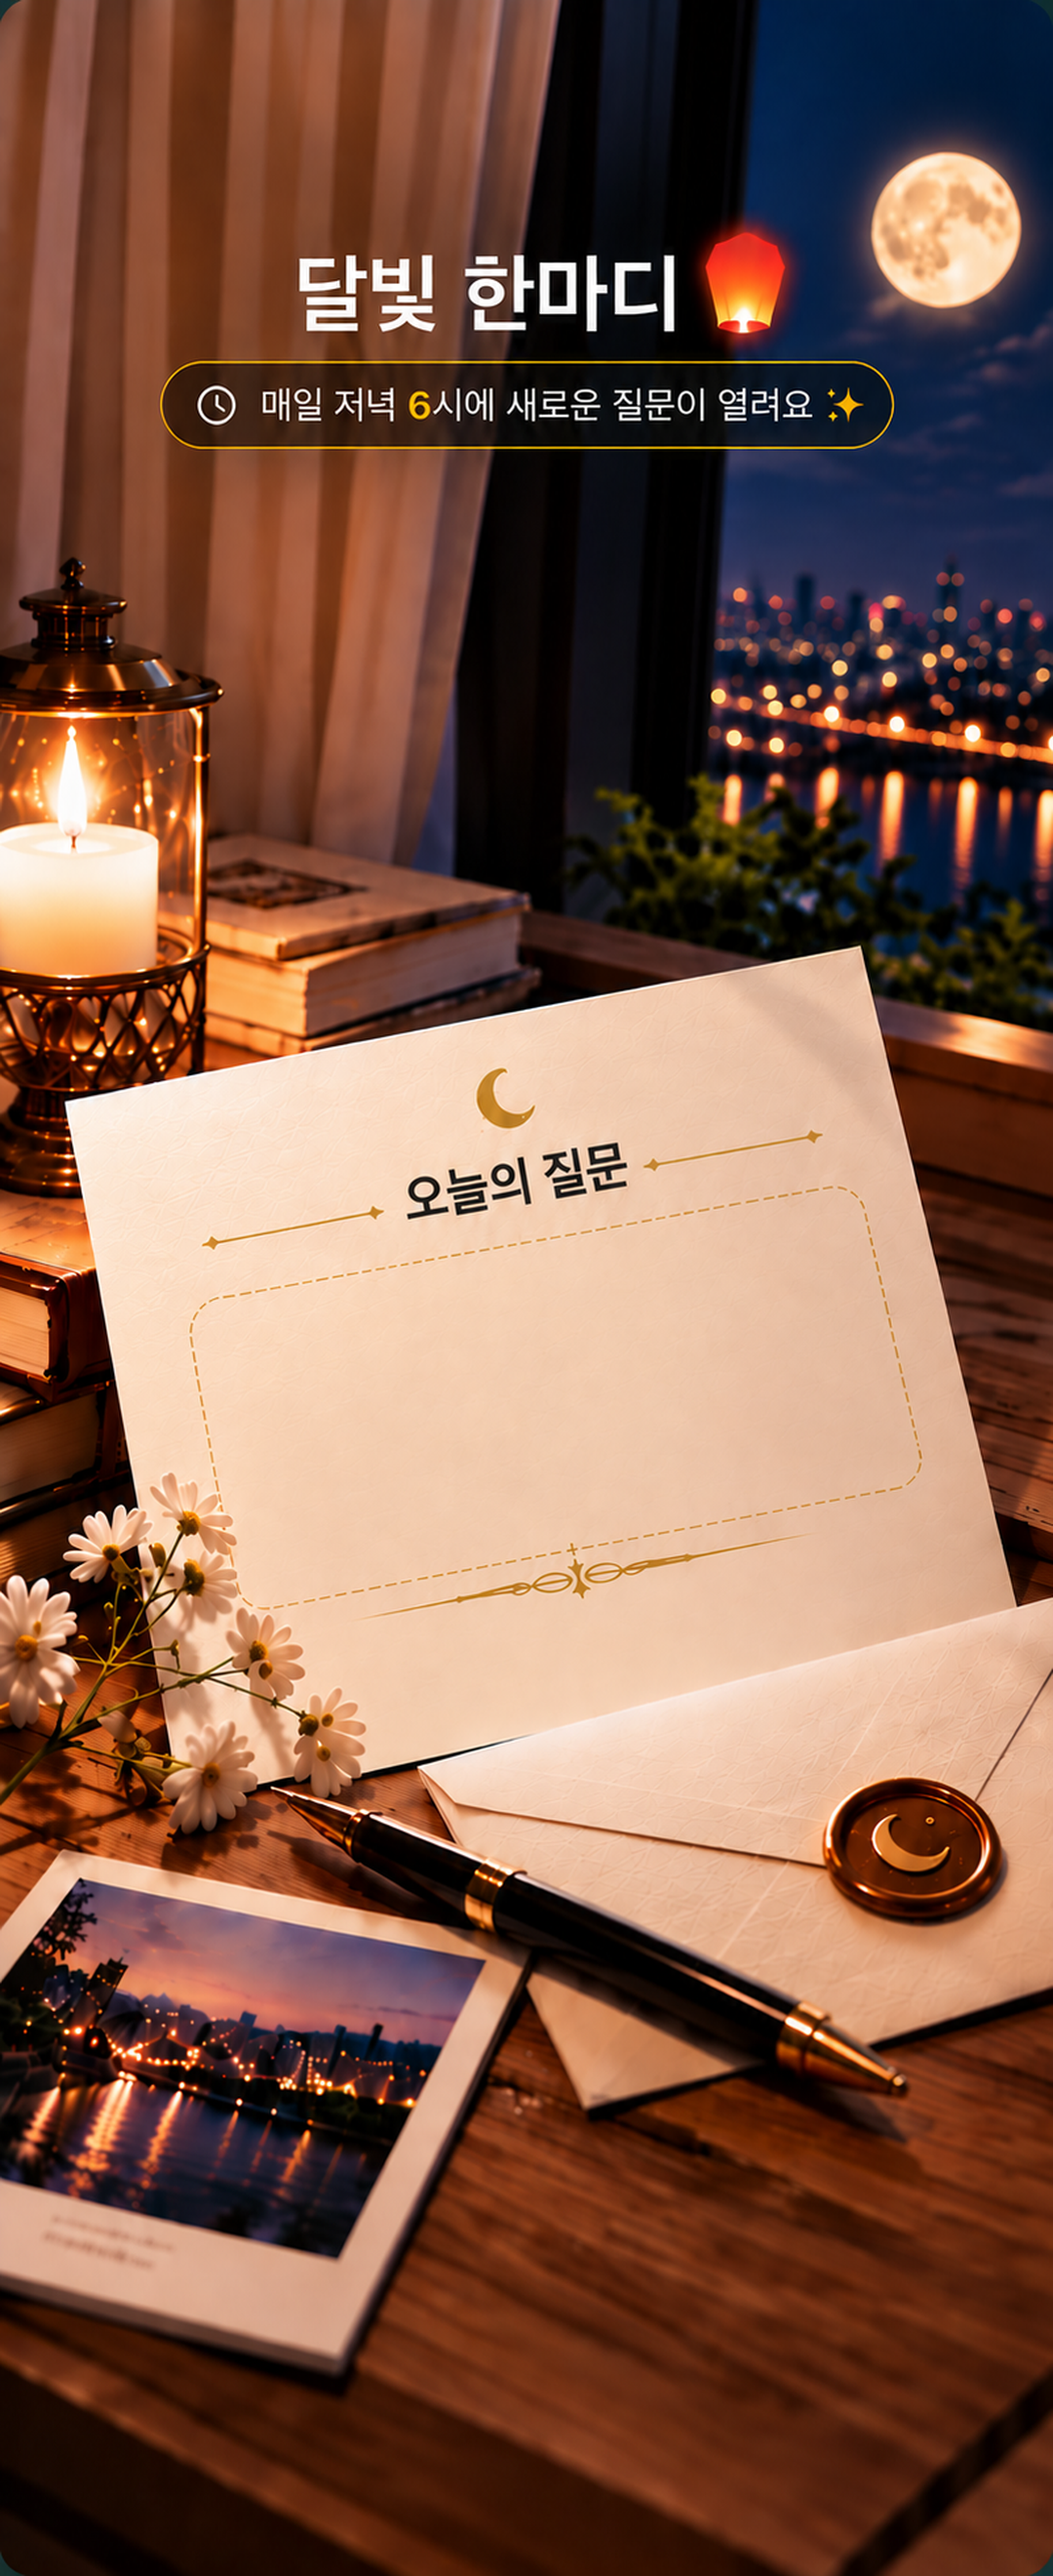
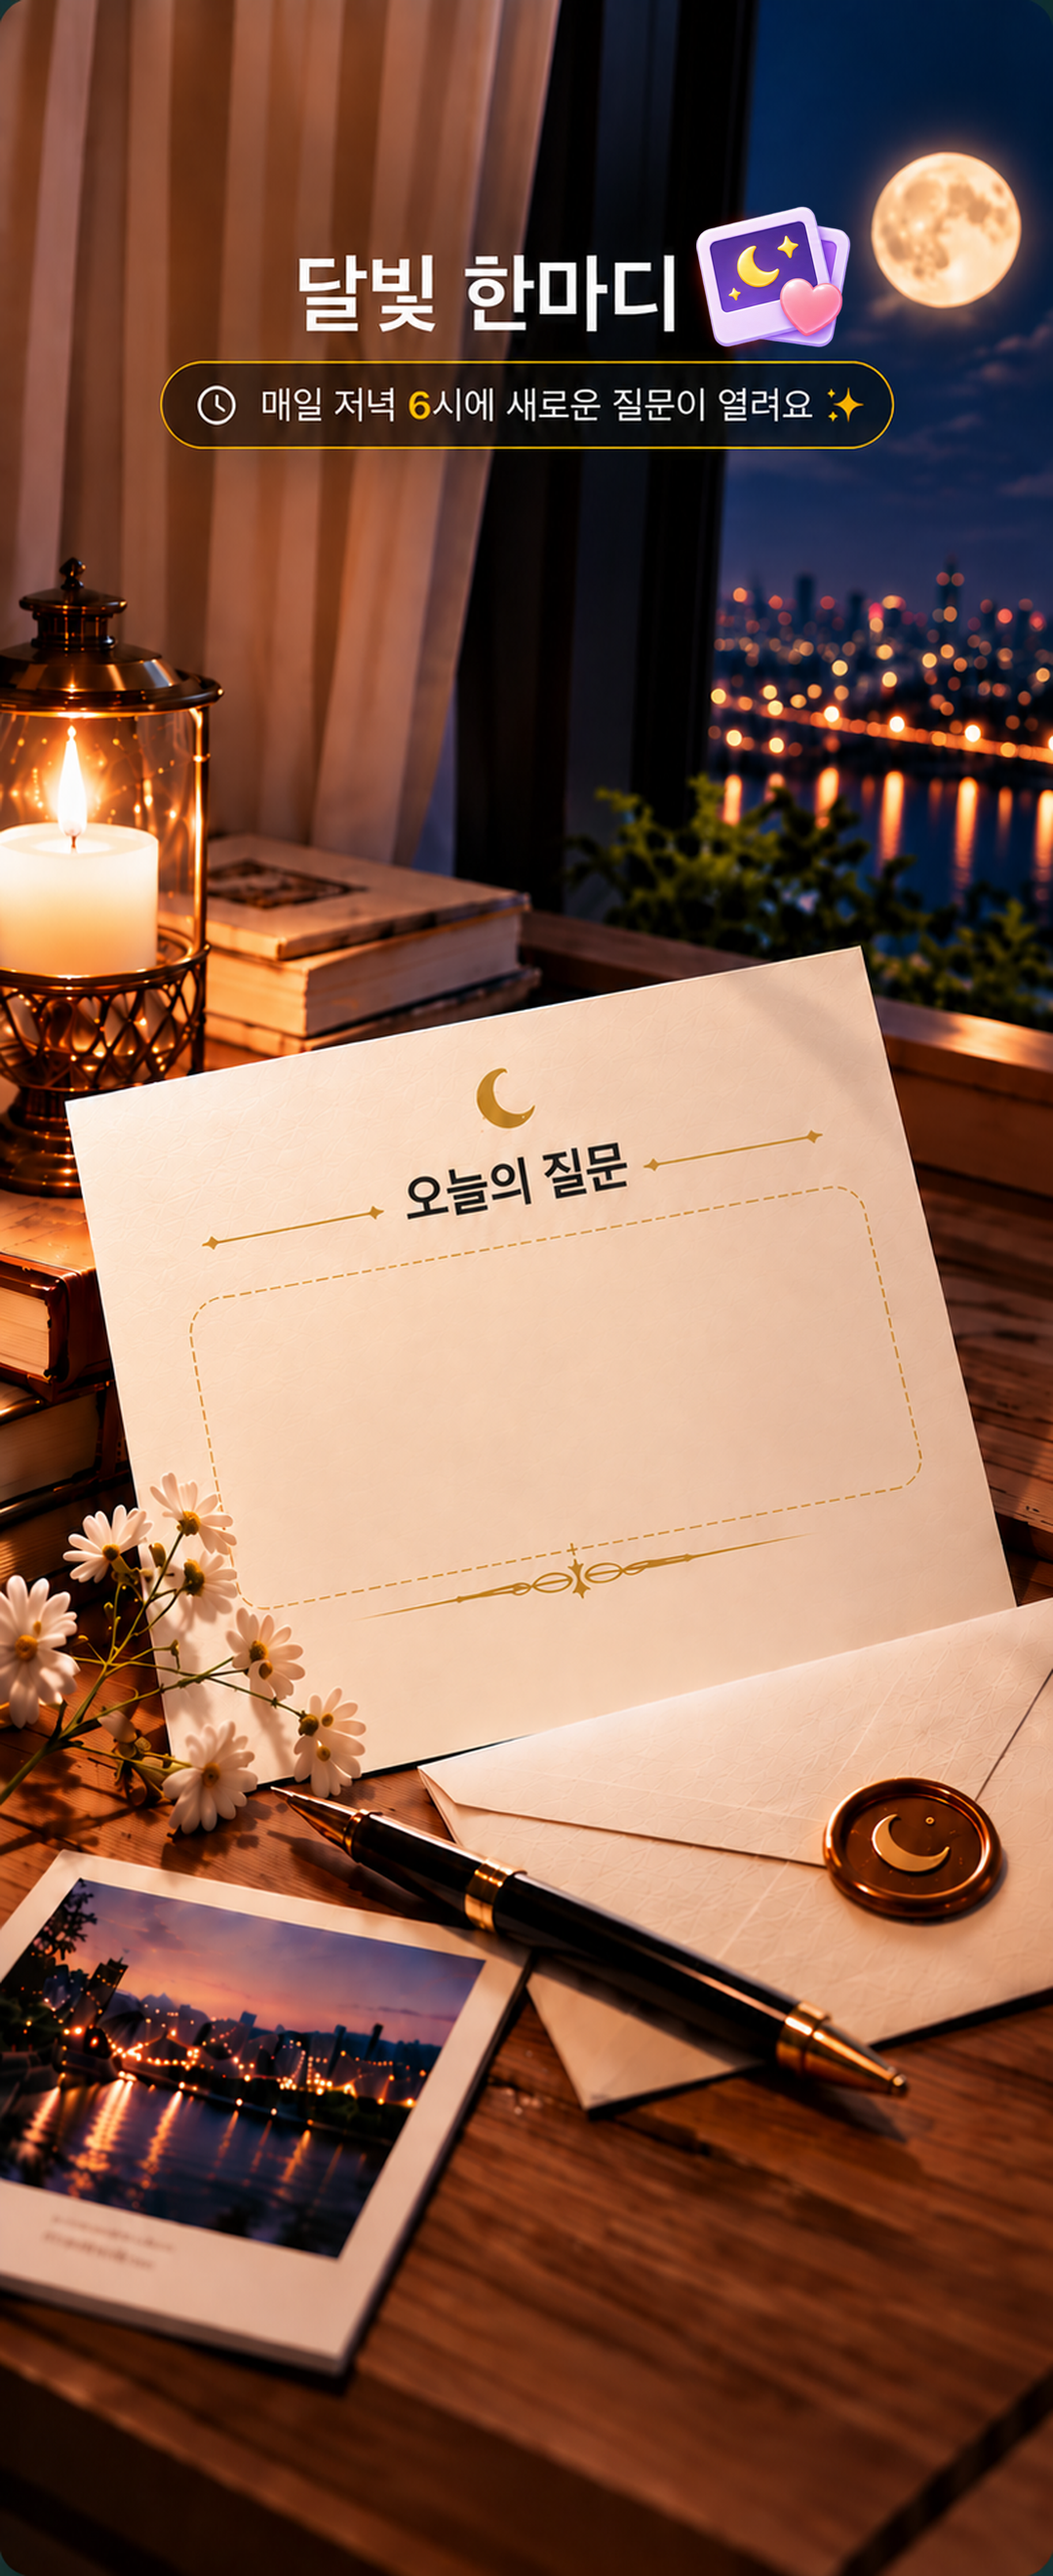
feat(word): 그래픽 소스 11-15 반영 — 타이틀 배경 · 상세 [사진] 버튼 그림 · 기획서 261111 9장 대조
- 타이틀 back_friends 한·일: 제목 옆 풍등 → 사진+하트 아이콘
- 답글 상세 입력줄 [사진] 버튼을 button_addphoto_m 그림으로(자리 표시 아이콘 제거)
- 261111 9장은 [번역] 화면 이름 두 줄만 바뀜 — 상점 세션이 이미 맞춰 둬 앱은 그대로

Changed region(s): [[0.6417, 0.0621, 0.825, 0.1553]]

diff --git a/lib/features/daily/presentation/screens/daily_detail_screen.dart b/lib/features/daily/presentation/screens/daily_detail_screen.dart
@@ -1131,32 +1131,29 @@ class _InputBar extends StatelessWidget {
       padding: EdgeInsets.fromLTRB(24 * s, 20 * s, 24 * s, 30 * s + bottom),
       child: Row(
         children: [
-          // 🚧 [사진] 버튼 그림이 안 왔다 — 보내기와 같은 노란 원에 아이콘으로 자리만 채운다.
+          // [사진] — `button_addphoto_m`(노란 원 + 사진 아이콘). 올리는 중에는 그림 위에 도는 표시를 얹는다.
           Semantics(
             button: true,
             label: l10n.commentsAttachImage,
             child: GestureDetector(
               onTap: onPickImage,
-              child: Container(
+              child: SizedBox(
                 width: WordArt.photoButtonSize * s,
                 height: WordArt.photoButtonSize * s,
-                decoration: const BoxDecoration(
-                  color: WordArt.yellow,
-                  shape: BoxShape.circle,
-                ),
-                child: uploading
-                    ? Padding(
+                child: Stack(
+                  fit: StackFit.expand,
+                  children: [
+                    Image.asset(WordArt.photoButton, fit: BoxFit.fill),
+                    if (uploading)
+                      Padding(
                         padding: EdgeInsets.all(34 * s),
                         child: const CircularProgressIndicator(
                           strokeWidth: 2,
                           color: WordArt.ink,
                         ),
-                      )
-                    : Icon(
-                        Icons.add_photo_alternate_outlined,
-                        color: const Color(0xFF3A3A44),
-                        size: 64 * s,
                       ),
+                  ],
+                ),
               ),
             ),
           ),

diff --git a/lib/features/daily/presentation/widgets/word_art.dart b/lib/features/daily/presentation/widgets/word_art.dart
@@ -236,9 +236,9 @@ class WordArt {
   static const String sendOff = '$_detail/button_message_normal.png';
   static const Size sendSize = Size(119, 118);
 
-  /// 🚧 **[사진] 버튼 그림은 안 왔다** — 노란 원(보내기와 같은 색)에 아이콘을 얹어 자리만 채운다.
+  /// [사진] 버튼(`button_addphoto_m`, 120×120 — 노란 원 + 사진 아이콘). 2026-11-15 `그래픽 소스`로 왔다.
+  static const String photoButton = '$_detail/button_addphoto_m.png';
   static const double photoButtonSize = 120;
-  static const Color yellow = Color(0xFFFDC302);
 
   /// 배경 미색(시안 실측 253,243,230).
   static const Color paper = Color(0xFFFDF3E6);

diff --git a/docs/09-next-task-handoff.md b/docs/09-next-task-handoff.md
@@ -42,7 +42,7 @@
 | 🙂 프로필 `/profile` | ✅ **11-15 `그래픽 소스` 반영**(2026-11-15) — [프로필 보기] 하단 버튼을 그림으로(`button_talk` 대화하기 · `button_friend` 친구 신청, 686×136) · 🔴 두 장 다 **1px 투명 세로 줄**(x=1285)이 화면에 보인다 — 다시 받을 것(08 §0-3). 다음: 기획서 **261111 8장 대조** · ✅ **[작성하기]·[미리 보기] 개편 끝**(261002 8-1, **V28**) — 실기기에서 **자유 사진 업로드** 한 번 눌러 볼 것 · 🆕 **미리보기 `[원문보기]`가 209×73 → 248×72로 커졌다 — 미반영(대화방 세션이 기록, 2026-11-15)**: 그림·크기를 `TalkArt`에서 빌려 써서 저절로 바뀜. `profile_preview_view.dart` `_ViewOriginalButton` 위 주석의 "209×73"만 낡았다 | 기획 확인 5건(10 §0-3) · 관심사 칩 36종·지역 칩 19곳 그림 · 일본어판 `mark_*` 4 · `title_profile` · 버튼 4(08 §0-3) |
 | 💌 채팅창 `/chat` | ✅ **10-25 `Scene_Chat` 시안대로 다시 그림**(19장, 07 §4). ✅ 에뮬 확인(10-25). ✅ **11-15 `그래픽 소스/채팅창` 변화 없음 · 기획서 261111 5장 대조 끝**(문구 "프라임 멤버십 구독" 두 줄만 반영). ✅ **11-15 채팅창 안 친구 신청 팝업 둘**([⋯]›[친구 신청] 안내 팝업 · 5-1 같은 방 받은 신청 팝업 · 친구가 되면 메뉴에서 [친구 신청] 숨김, 에뮬 확인 — 수락·거절·닫기 전부). 다음: 실기기(폰) 확인. GIF는 버튼만(누르면 "준비 중") — 키가 오면 검색 시트 + 메시지 종류 `GIF` | GIF 검색 API 키(KLIPY·Tenor) · 번역 공급자(막힌 것 D) · 그림 셋(안내 문구 · 노란 [정지] · [⋯] 패널, 08 §0-5) · `button_infotrans` 일본어판 |
 | 👑 상점 `/shop` | ✅ **11-15 `그래픽 소스` 대조 — 반영할 것 없음**(2026-11-15): ` copy`가 붙어 왔던 `frame_primealbum_kr`은 이름이 바로잡혀 다시 왔고 한·일 둘 다 저장소와 바이트까지 같다 · ✅ **11-14 기획서 261111 + `Scene_Shop(New)` 반영** — 루나 상점 폐지 · 상품별 구매·관리·구매 완료 · 프라임 구매 완료 · **V31**(프라임 구독분/상점 구매분). 다음: 기획 답이 오면 맞추기 · 결제창(막힌 것 E) | 기획 확인(10 §0-5 다섯 · **§0-7 일곱**: 가격 · 부스트 사용 확인 그림 · 다시 사기 조건 등) · ✅ 대화 신청 2회 무료·루나 차감 제거는 가든이 반영(11-15) |
-| 🏮 달빛 한마디 `/word` | 🆕 **11-15 `그래픽 소스` 대조 — 미반영**: 답글 상세 `button_addphoto_m` 🆕 · 타이틀 `back_friends_kr/jp` 그림 바뀜(714,210~873,357) · ✅ **10-11 기획서 261011 9장 + `Scene_Word` 전부 반영** — 타이틀·[내 한마디 등록]·[답글 목록]·**[답글 상세](`Reply Detail`, 전체 화면·댓글 본문 아래·ㄴ·보내기 회색↔노랑)** · 200자(V29) · 등록해야 목록 · 참여 뒤 타이틀 건너뜀 · 내 글 좋아요·먼저 댓글 금지 · 더미 `tools/demo/seed_word.py`(07 §4 10-11 [달빛 한마디] 셋). ✅ 갱신판(15:37) 대조 끝 — 첨부 썸네일 줄(image26) · 18시에 쓰던 등록 시트 닫기. 다음: 새 전달본이 오면 | [사진] 버튼·`•••`·♥ 눌린 상태 그림 · 상세 ♥·💬 옆 숫자를 둘지(시안 둘이 다름) · 일본어판 5장(08 §0-4) · 자동 번역 기능 · 무료 번역 5회 초기화 주기(§2-1) |
+| 🏮 달빛 한마디 `/word` | ✅ **11-15 `그래픽 소스` 반영**(2026-11-15) — 타이틀 배경 한·일(풍등 → 사진+하트 아이콘) · 답글 상세 입력줄 **[사진] 버튼 그림** `button_addphoto_m` · ✅ **기획서 261111 9장 대조**: [번역]이 [자동 번역 구매] 화면으로(상점 세션이 이미 맞춰 둠) · 이름 두 줄뿐 → 앱 그대로. 에뮬 확인 · ✅ **10-11 기획서 261011 9장 + `Scene_Word` 전부 반영** — 타이틀·[내 한마디 등록]·[답글 목록]·**[답글 상세](`Reply Detail`, 전체 화면·댓글 본문 아래·ㄴ·보내기 회색↔노랑)** · 200자(V29) · 등록해야 목록 · 참여 뒤 타이틀 건너뜀 · 내 글 좋아요·먼저 댓글 금지 · 더미 `tools/demo/seed_word.py`(07 §4 10-11 [달빛 한마디] 셋). ✅ 갱신판(15:37) 대조 끝 — 첨부 썸네일 줄(image26) · 18시에 쓰던 등록 시트 닫기. 다음: 새 전달본이 오면 | `•••`·♥ 눌린 상태 그림 · 상세 ♥·💬 옆 숫자를 둘지(시안 둘이 다름) · 일본어판 5장(08 §0-4) · 자동 번역 기능 · 무료 번역 5회 초기화 주기(§2-1) |
 | 🧩 그 외 | ✅ 댓글 "답글은 하나"(V30, 10-11). 🧹 죽은 코드 둘 치우기(§4-5) | 막힌 것 C(§2) — D는 `/chat`, E는 `/shop`과 걸친다 |
 
 ---

diff --git a/docs/07-work-log.md b/docs/07-work-log.md
@@ -446,6 +446,17 @@ adb shell cmd locale set-app-locales com.example.project_chat --locales ko-KR
 > 다음에 할 일은 [09 인수인계](09-next-task-handoff.md) §2의 **막힌 것 3건**에서 고른다(A·B가 해소됐다).
 > 다음 "싱크용 문서" 요청은 **그 이후 작업부터** 정리하면 된다.
 
+### 2026-11-15 [달빛 한마디] — `그래픽 소스/달빛 한마디 화면` 반영(타이틀 배경 · [사진] 버튼) · 기획서 261111 9장 대조 → 앱은 그대로
+- 이 PC에서 달빛 한마디 세션 시작. 대조 결과 한마디 몫은 세 장.
+- 타이틀 `back_friends_kr/jp` — 제목 옆 **풍등이 사진+하트 아이콘으로** 바뀌었다(714,210~873,357만). 가든 `button_Moonlight` 새 그림과 같은 모양이다.
+  `title/back_friends.png`·`title/ja/back_friends.png` 갈아끼움(글자 자리 그대로라 코드는 안 바뀜).
+- 🆕 답글 상세 `button_addphoto_m`(120×120, 노란 원 + 사진 아이콘) — 그동안 노란 원 + `Icons.add_photo_alternate_outlined`로 채웠던 입력줄 [사진] 버튼 자리.
+  `reply_detail/button_addphoto_m.png` · `WordArt.photoButton` · 올리는 중엔 그림 위에 도는 표시(안 쓰게 된 `WordArt.yellow` 지움).
+- 기획서 **261011 → 261111 9장 diff: 두 줄** — [번역] 버튼이 "[자동번역 패스] 관리 화면" → **"[자동 번역 구매] 화면"**, "[Prime 구독]과 [자동번역 패스]" → "[프라임 멤버십 구독]과 [자동 번역]".
+  [번역]이 여는 `PassScreen.route`는 상점 세션이 이미 [자동 번역 구매/관리] 화면(`ShopItemScreen`)으로 돌려 놓았다 → **앱은 고칠 것 없음**.
+  소진 문구("…자동 번역 패스를 이용해 주세요")는 261111 본문도 그대로라 `translateCommentExhausted`도 그대로.
+- 에뮬(Pixel_10) 눈 확인: 새 타이틀 · 답글 상세 입력줄 [사진] 그림 · 누르면 사진 첨부 시트. 데이터는 `seed_word.py --me`.
+
 ### 2026-11-15 [프로필] — `그래픽 소스/프로필 화면` 반영: [프로필 보기] 하단 버튼을 그림으로
 - 이 PC에서 프로필 세션 시작. 대조 결과 프로필 몫은 미리보기의 새 그림 두 장뿐(`button_talk` 대화하기 · `button_friend` 친구 신청, 1542×305).
 - `assets/images/scene_profile/preview/`에 들이고 `profile_view_screen.dart`의 `_Action`을 `FilledButton.icon` → `ArtImage`로.

diff --git a/docs/08-assets-checklist.md b/docs/08-assets-checklist.md
@@ -173,8 +173,9 @@
 - **`Reply Detail` 17장**(같은 날 두 번째 전달) → `reply_detail/`. `icon_flag_kor/jap`(70)·`icon_mmflag_kor/jap`(41)은 나라라 이름 그대로.
   - ⚠ `frame_commentphoto`(1045×1111)는 **테두리가 아니라 속이 흰 카드**다(알파 실측 — 가장자리 ≈10px 안쪽부터 불투명).
     위에 얹으면 사진을 덮는다 → **카드를 깔고 사진을 10px 안쪽에** 얹는다.
-  - 🚧 **안 온 것**: 입력줄 왼쪽 **[사진] 버튼**(시안의 노란 원 — 지금은 노란 원 + 아이콘) · 댓글 줄 **`•••`**(아이콘) ·
-    ♥의 **눌린 상태 그림**(한 장뿐이라 눌러도 모양이 같다).
+  - ✅ 입력줄 왼쪽 **[사진] 버튼**은 2026-11-15 `그래픽 소스`로 왔다 → `reply_detail/button_addphoto_m.png`(120×120).
+  - 🚧 **안 온 것**: 댓글 줄 **`•••`**(아이콘) · ♥의 **눌린 상태 그림**(한 장뿐이라 눌러도 모양이 같다).
+- 2026-11-15 타이틀 `back_friends` 한·일 둘 다 다시 받음 — 제목 옆 풍등 → 사진+하트 아이콘(가든 `button_Moonlight`와 같은 모양).
   - `button_infotrans`는 `★ 번역 |`까지만 그려져 있고 오른쪽 칸(그림 안 x 190~282)에 상태 글자(`4일`·`무료 3회`·`준비 중`)를 얹는다.
 
 ✅ **일본어판이 온 것 5장**: `back_friends`(「月のひとこと」) · `reply_register/back_word` · `button_register`(登録する) ·

diff --git a/.claude/skills/word/SKILL.md b/.claude/skills/word/SKILL.md
@@ -55,7 +55,9 @@ disable-model-invocation: true
 - 입력줄 왼쪽 단추는 **사진 첨부**(시안의 "시스템 이모티콘 호출"은 오기). 이모지는 **자판의 이모지**로
 - 답글 앞에 **`ㄴ`**(`icon_link`) · 댓글 규칙은 그대로(A → B → A)
 - 보내기: **글이 없으면 회색·안 눌림, 글이 들어가면 노랑·눌림**
-- 🚧 그림이 안 온 것: 입력줄 **[사진] 버튼**(노란 원 + 아이콘) · 줄 오른쪽 **`•••`**(아이콘) · ♥의 **눌린/안 눌린 두 벌**(지금 한 장)
+- 입력줄 **[사진] 버튼**은 `button_addphoto_m`(2026-11-15 `그래픽 소스`)
+- 🚧 그림이 안 온 것: 줄 오른쪽 **`•••`**(아이콘) · ♥의 **눌린/안 눌린 두 벌**(지금 한 장)
+- 기획서 261111 9장: [번역] → **[자동 번역 구매]** 화면(상점 `PassScreen.route` = `ShopItemScreen`, 이미 맞음)
 - ⚠ 큰 사진 틀 `frame_commentphoto`는 **속이 흰 카드**다 — 카드를 깔고 사진을 그 위 10px 안쪽에
 - 📎 첨부 사진은 **입력줄 바로 위 썸네일 줄**(갱신판 image26) — 썸네일 · `사진 1/1` · `사진이 첨부되었습니다.` · ✕.
   썸네일을 누르면 크게 보고, ✕로 지우고, **보낼 때까지 남는다**

diff --git a/docs/13-screen-audit.md b/docs/13-screen-audit.md
@@ -35,7 +35,7 @@
 | **[프로필 보기]** | 5 (img12 좌측) | ✅ **새로 만듦**(⑥-B) |
 | **친구 목록** | 7-1 (img16·17) | ✅ 맞춤 완료(⑥) |
 | **프로필** | (img18~22) | ✅ **맞춤 완료**(⑥-B) |
-| **달빛 한마디** | **9** (261011: img24·25 교체 · 갱신판 img25 다시 교체 + **img26 썸네일** 추가) | 🟡 **타이틀·[내 한마디 등록]·[답글 목록]은 `Scene_Word`로 다시 맞췄다**(2026-10-11). **[답글 상세]도 `Reply Detail`로 다시 그렸다**(같은 날, 07 §4) — 그림이 안 온 [사진] 버튼·`•••`만 자리 채움 |
+| **달빛 한마디** | **9** (261011: img24·25 교체 · 갱신판 img25 다시 교체 + **img26 썸네일** 추가) | 🟡 **타이틀·[내 한마디 등록]·[답글 목록]은 `Scene_Word`로 다시 맞췄다**(2026-10-11). **[답글 상세]도 `Reply Detail`로 다시 그렸다**(같은 날, 07 §4) — 그림이 안 온 `•••`만 자리 채움([사진] 버튼은 11-15에 옴) |
 | **BM 5종** | 9 (img26~30) | 🟡 **구조는 맞음**, 남은 것은 §7 |
 
 ---
